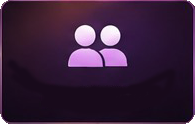
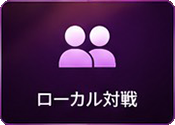
入口バナー8ボタンをユーザー提供の専用レイヤー素材に統一(Ver.1.035)
ユーザーが用意した8個のレイヤー分け画像(アイコン+ラベル+ボタンごとの専用配色が最初からバッキング
された透過PNG、1536x1024の全体キャンバスから対象部分だけ自動切り出し)に全面差し替え:
チュートリアル/ローカル対戦/ウィークリーチャレンジ/オンライン対戦/カードリスト/デザイナーズノート
(新規アイコン獲得)/ランキング/実績解除。

画像自体がボタンの見た目(角丸カード+固有配色+アイコン+ラベル)を完結して持つようになったため、
CSS側の共通背景・縁取り・ボタンごとのborder-top-color手動指定・デザイナーズノート専用のテキスト
ボタン・アイコン単体+HTMLラベル方式は全て不要になり撤去。.entry-banner__feature-button/imgは
レイアウトと当たり判定のみのシンプルな状態に整理。

旧来の7個の文字焼き込み済みクロップ画像(assets/entry-banner-button-*.png)は完全に不要になった
ため削除。id/クリック処理(main.js)は変更なし。

全smoke test(15ファイル)+DSL validatorで確認済み(main.js自体はNodeテスト対象外、node --checkのみ)。

diff --git a/index.html b/index.html
@@ -15,7 +15,7 @@
        古ければ、ブラウザがキャッシュした古いファイルを見ている/pushがまだ反映されていないと一目で
        わかるようにするための目印(実際の挙動には一切影響しない、純粋な表示用の目印)。main.js/index.html/
        data/をpushするたびにここをインクリメントすること。 -->
-  <div id="copyright-notice">© 2026 higebucho Ver.1.034</div>
+  <div id="copyright-notice">© 2026 higebucho Ver.1.035</div>
 
   <!-- 入口バナー (2026-10-04, per user request: "HPに入ったときに大き目バナーを用意して導線をわかりやすく
        したい") -- #app/#weekly-seat-pickerと同じ「画面を丸ごと差し替える」パターン(main.jsのrender()
@@ -23,16 +23,14 @@
        ウィークリーチャレンジ/テストゲームのpendingフラグ経由でのreload後や、一度バナーを閉じた後は
        スキップする。
        2026-10-11、per user提供の新背景画像(assets/entry-banner-hero-bg.png、1536x1024、ボタン無し)に
-       差し替え、per user request「以前のボタンを組み合わせて前と同じようなものを再現してほしい」: 旧
-       assets/entry-banner-hero.jpg(2026-10-05版)は「今すぐプレイ」CTA+7つのボタンが絵として焼き込まれて
-       いたため、その実ピクセル位置に透明ボタンを重ねる方式だったが、新背景の写真はボタン用の余白が
-       無いため、代わりに画像下部に半透明の帯(#entry-banner__overlay-panel)をCSSで敷き、その上にCTA+
-       ボタン行を実在の見えるボタン要素として配置(どんな背景写真でも馴染む、旧来のpixel位置合わせが
-       不要になった)。7ボタンの中身は旧画像からPillowで切り出した素材(assets/entry-banner-button-*.png、
-       各自ラベル・アイコン込み)をそのまま再利用。8個目の「デザイナーズノート」ボタンは新規追加
-       (per user request、リンク先はまだ無いのでクリックしても準備中メッセージのみ -- main.js参照)、
-       素材画像が無いためCSSスタイルのみのボタン。id/クリック処理(main.js)は既存7個とも変更なし --
-       マークアップと見た目だけの変更。 -->
+       差し替え: 新背景の写真はボタン用の余白が無いため、画像下部に半透明の帯(#entry-banner__overlay-
+       panel)をCSSで敷き、その上にCTA+ボタン行を実在の見えるボタン要素として配置(どんな背景写真でも
+       馴染む、旧来のpixel位置合わせ透明ボタン重ねは廃止)。8個のボタンは全てユーザー提供のレイヤー
+       分け素材(assets/entry-banner-icon-*.png -- アイコン+ラベル+ボタンごとの専用配色が最初から
+       バッキングされた透過PNG、1536x1024の全体キャンバスから対象部分だけPillowでbbox切り出し)を使用。
+       「デザイナーズノート」はper user requestで新規追加した8個目(リンク先はまだ無いのでクリックしても
+       準備中メッセージのみ -- main.js参照)。id/クリック処理(main.js)は既存7個とも変更なし -- マーク
+       アップと見た目だけの変更。 -->
   <div id="entry-banner">
     <div id="entry-banner__box">
       <div id="entry-banner__hero-wrap">
@@ -40,7 +38,7 @@
         <!-- バージョン表示 (2026-10-08, per user request: "セリフで見えにくいので トップ画像の右下にも") --
              #copyright-noticeはゲーム中のセリフ吹き出しに隠れて見えにくいため、入口バナー(トップ画像)の
              右下にも同じ番号を複製表示する。中身は#copyright-noticeと手動で同期させること。 -->
-        <div id="entry-banner__version">Ver.1.034</div>
+        <div id="entry-banner__version">Ver.1.035</div>
         <!-- 見出し文言+CTA (2026-10-11, per user request: "ダイスで築く、あなただけの王国。などの文言も
              前と同じように表示して 今すぐプレイボタンも" -- 旧画像に焼き込まれていたキャッチコピーを、
              新背景では実テキストとして表示(per user: "文言は後から変更できるように" -- 画像ではなく
@@ -55,26 +53,19 @@
         <div id="entry-banner__overlay-panel">
           <div id="entry-banner__button-row">
             <!-- 並び順 (2026-10-11, per user spec): チュートリアル/ローカル対戦/オンライン対戦/
-                 ウィークリーチャレンジ/カードリスト/ランキング/実績解除/デザイナーズノート。 -->
-            <!-- アイコン単体+HTML側ラベル (2026-10-11, per user提供のレイヤー分け素材に差し替え -- 残り
-                 5個は旧来の文字焼き込み済みクロップ画像のまま、素材が届き次第同じ形に揃える)。 -->
-            <button type="button" class="entry-banner__feature-button entry-banner__feature-button--icon-label" id="entry-banner-tutorial-button" aria-label="チュートリアル">
-              <img src="assets/entry-banner-icon-tutorial.png" alt="">
-              <span class="entry-banner__feature-button-label">チュートリアル</span>
-            </button>
-            <button type="button" class="entry-banner__feature-button entry-banner__feature-button--icon-label" id="entry-banner-local-button" aria-label="ローカル対戦">
-              <img src="assets/entry-banner-icon-local.png" alt="">
-              <span class="entry-banner__feature-button-label">ローカル対戦</span>
-            </button>
-            <button type="button" class="entry-banner__feature-button" id="entry-banner-online-button" aria-label="オンライン対戦"><img src="assets/entry-banner-button-online.png" alt=""></button>
-            <button type="button" class="entry-banner__feature-button" id="entry-banner-weekly-button" aria-label="ウィークリーチャレンジ"><img src="assets/entry-banner-button-weekly.png" alt=""></button>
-            <button type="button" class="entry-banner__feature-button" id="entry-banner-cardlist-button" aria-label="カードリスト"><img src="assets/entry-banner-button-cardlist.png" alt=""></button>
-            <button type="button" class="entry-banner__feature-button" id="entry-banner-ranking-button" aria-label="ランキング"><img src="assets/entry-banner-button-ranking.png" alt=""></button>
-            <button type="button" class="entry-banner__feature-button" id="entry-banner-achievement-button" aria-label="実績解除"><img src="assets/entry-banner-button-achievement.png" alt=""></button>
-            <!-- デザイナーズノート (2026-10-11, per user request) -- 専用の素材画像が無いため、CSSのみの
-                 テキストボタン(.entry-banner__feature-button--text)。リンク先URLはまだ無い(per user:
-                 "まだできていないので飛ばない") -- クリックすると準備中メッセージを出すだけ、main.js参照。 -->
-            <button type="button" class="entry-banner__feature-button entry-banner__feature-button--text" id="entry-banner-designer-notes-button" aria-label="デザイナーズノート">デザイナーズノート</button>
+                 ウィークリーチャレンジ/カードリスト/ランキング/実績解除/デザイナーズノート。
+                 8個ともユーザー提供のレイヤー分け素材(アイコン+ラベル込み、ボタンごとに専用配色、
+                 透過PNG、assets/entry-banner-icon-*.png)に統一(2026-10-11)。デザイナーズノートの
+                 リンク先はまだ無い(per user: "まだできていないので飛ばない") -- クリックすると
+                 準備中メッセージを出すだけ、main.js参照。 -->
+            <button type="button" class="entry-banner__feature-button" id="entry-banner-tutorial-button" aria-label="チュートリアル"><img src="assets/entry-banner-icon-tutorial.png" alt=""></button>
+            <button type="button" class="entry-banner__feature-button" id="entry-banner-local-button" aria-label="ローカル対戦"><img src="assets/entry-banner-icon-local.png" alt=""></button>
+            <button type="button" class="entry-banner__feature-button" id="entry-banner-online-button" aria-label="オンライン対戦"><img src="assets/entry-banner-icon-online.png" alt=""></button>
+            <button type="button" class="entry-banner__feature-button" id="entry-banner-weekly-button" aria-label="ウィークリーチャレンジ"><img src="assets/entry-banner-icon-weekly.png" alt=""></button>
+            <button type="button" class="entry-banner__feature-button" id="entry-banner-cardlist-button" aria-label="カードリスト"><img src="assets/entry-banner-icon-cardlist.png" alt=""></button>
+            <button type="button" class="entry-banner__feature-button" id="entry-banner-ranking-button" aria-label="ランキング"><img src="assets/entry-banner-icon-ranking.png" alt=""></button>
+            <button type="button" class="entry-banner__feature-button" id="entry-banner-achievement-button" aria-label="実績解除"><img src="assets/entry-banner-icon-achievement.png" alt=""></button>
+            <button type="button" class="entry-banner__feature-button" id="entry-banner-designer-notes-button" aria-label="デザイナーズノート"><img src="assets/entry-banner-icon-designer-notes.png" alt=""></button>
           </div>
         </div>
       </div>

diff --git a/style.css b/style.css
@@ -4868,70 +4868,31 @@ body.tutorial-mode .change-highlight {
   width: 100%;
 }
 
-/* 画面端いっぱいに8等分 (旧画像の7ボタンが端から端まで隙間なく並んでいた見た目に合わせる)。 */
+/* 画面端いっぱいに8等分 (旧画像の7ボタンが端から端まで隙間なく並んでいた見た目に合わせる)。2026-10-11
+   更新: 8個ともユーザー提供のレイヤー分け素材(アイコン+ラベル+ボタンごとの専用配色が最初から
+   バッキングされた透過PNG)に統一したため、以前ここにあった共通背景/縁取り/ボタンごとのborder-top-
+   colorの手動指定/デザイナーズノート用テキストボタン/アイコン単体+HTMLラベル方式は全て不要になり撤去 --
+   画像自身がカードの見た目を完結して持っているので、ボタン要素側はレイアウトと当たり判定だけ。 */
 .entry-banner__feature-button {
   flex: 1 1 0;
   min-width: 0;
   height: clamp(64px, 11vw, 100px);
+  display: flex;
+  align-items: center;
+  justify-content: center;
   border: none;
-  border-top: 3px solid rgba(217, 178, 92, 0.55);
-  background: rgba(16, 12, 8, 0.82);
-  padding: 0;
+  background: transparent;
+  padding: 2px;
   cursor: pointer;
   line-height: 0;
 }
-/* ボタンごとの縁色 (2026-10-11, per user request: "可能な限り前に近づけて 手は抜かないでね") -- 旧画像の
-   実物をPillowでサンプリングして取り直した各ボタンのアクセント色(チュートリアル=グレー、ローカル対戦=
-   マゼンタ、ウィークリーチャレンジ=緑、オンライン対戦=青、カードリスト=茶、ランキング=紫、実績解除=
-   オリーブ金。デザイナーズノートは旧画像に無いため、既存7色と被らないテラコッタを新規に割り当て)。 */
-#entry-banner-tutorial-button { border-top-color: #8a8f99; }
-#entry-banner-local-button { border-top-color: #d6577f; }
-#entry-banner-weekly-button { border-top-color: #4caf6a; }
-#entry-banner-online-button { border-top-color: #3f8ce0; }
-#entry-banner-cardlist-button { border-top-color: #b4733a; }
-#entry-banner-ranking-button { border-top-color: #a85fc2; }
-#entry-banner-achievement-button { border-top-color: #9a8a2e; }
-#entry-banner-designer-notes-button { border-top-color: #c0674a; }
 .entry-banner__feature-button img {
   display: block;
-  width: 100%;
-  height: 100%;
-  object-fit: cover;
-}
-/* デザイナーズノート (2026-10-11) -- 専用素材が無いテキストのみのボタン。他7個と同じセル寸法+
-   暖色の濃い茶〜焦げ茶背景+白文字で馴染ませる。 */
-.entry-banner__feature-button--text {
-  display: flex;
-  align-items: center;
-  justify-content: center;
-  text-align: center;
-  padding: 6px;
-  color: #fff;
-  font-size: clamp(11px, 1.3vw, 13px);
-  font-weight: 700;
-  line-height: 1.3;
-}
-/* アイコン単体+HTML側ラベル (2026-10-11, per userのレイヤー分け素材) -- 旧来の文字焼き込み済み
-   クロップ(.entry-banner__feature-button img の基本ルール、width/height:100%)を上書きし、アイコンを
-   上寄せcontainで縮小表示+下にラベルテキストを独立して置く。 */
-.entry-banner__feature-button--icon-label {
-  display: flex;
-  flex-direction: column;
-  align-items: center;
-  justify-content: center;
-  gap: 2px;
-  line-height: normal;
-}
-.entry-banner__feature-button--icon-label img {
+  max-width: 100%;
+  max-height: 100%;
   width: auto;
-  height: 55%;
+  height: auto;
   object-fit: contain;
-}
-.entry-banner__feature-button-label {
-  color: #fff;
-  font-size: clamp(10px, 1.2vw, 13px);
-  font-weight: 700;
-  text-shadow: 0 1px 3px rgba(0, 0, 0, 0.7);
 }
 /* ロック中(実績解除2、2026-10-11) -- main.jsがページ読込時/ゲーム終了後に付け外しするクラス。 */
 .entry-banner__feature-button--locked {
